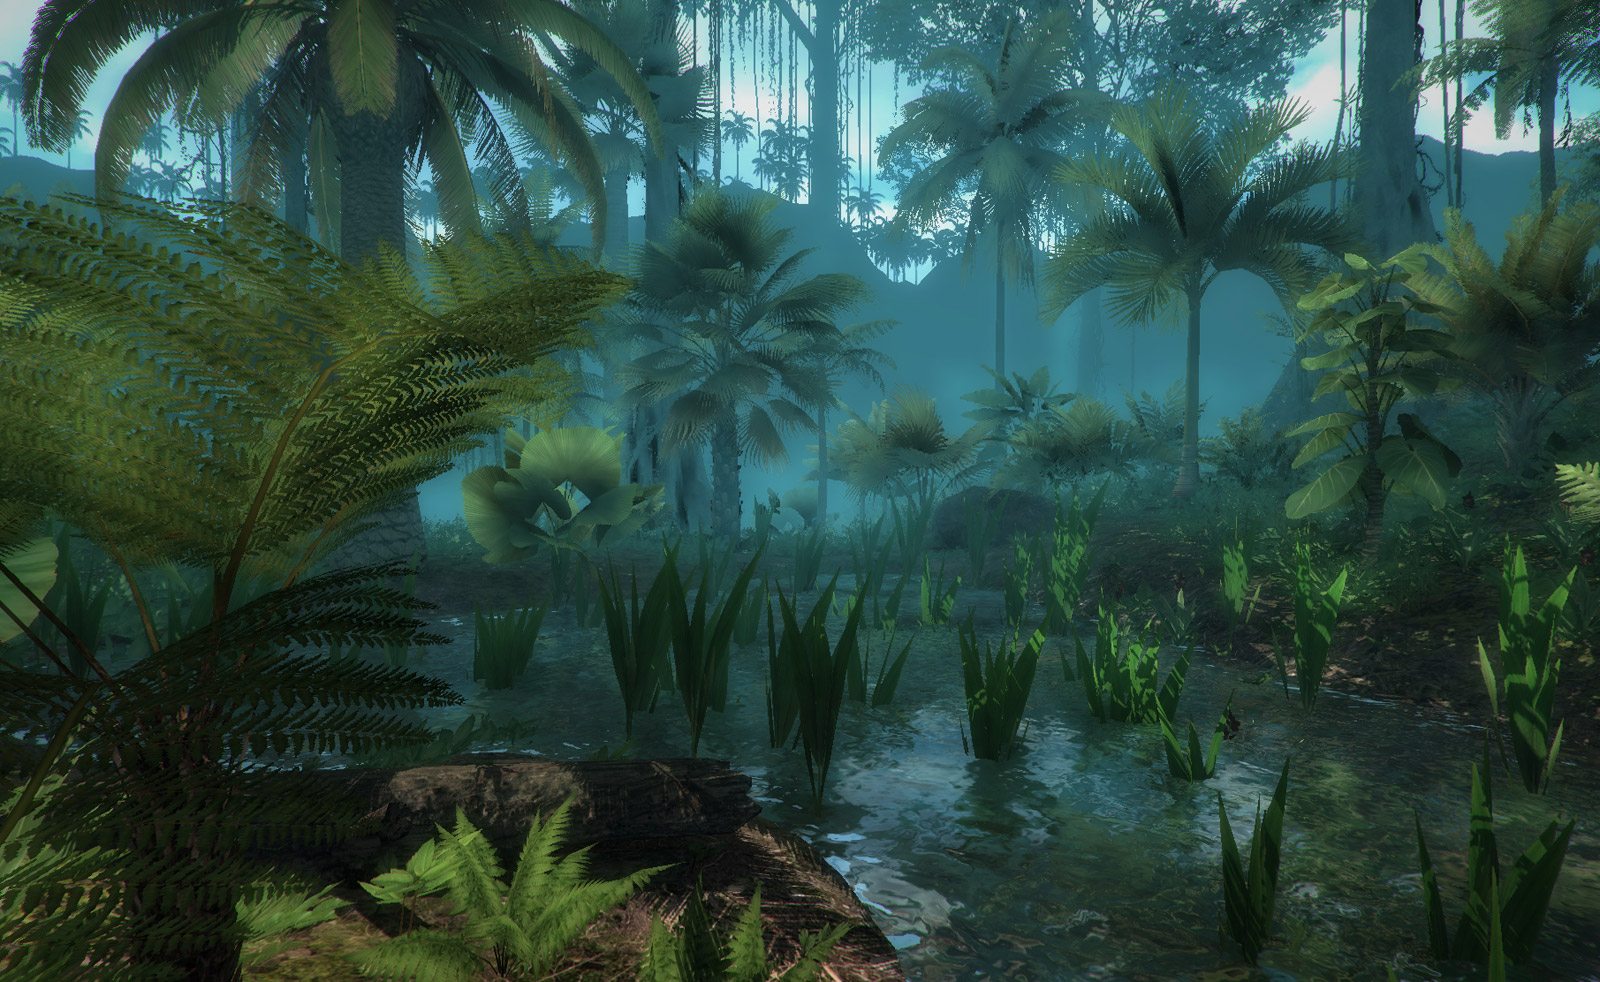
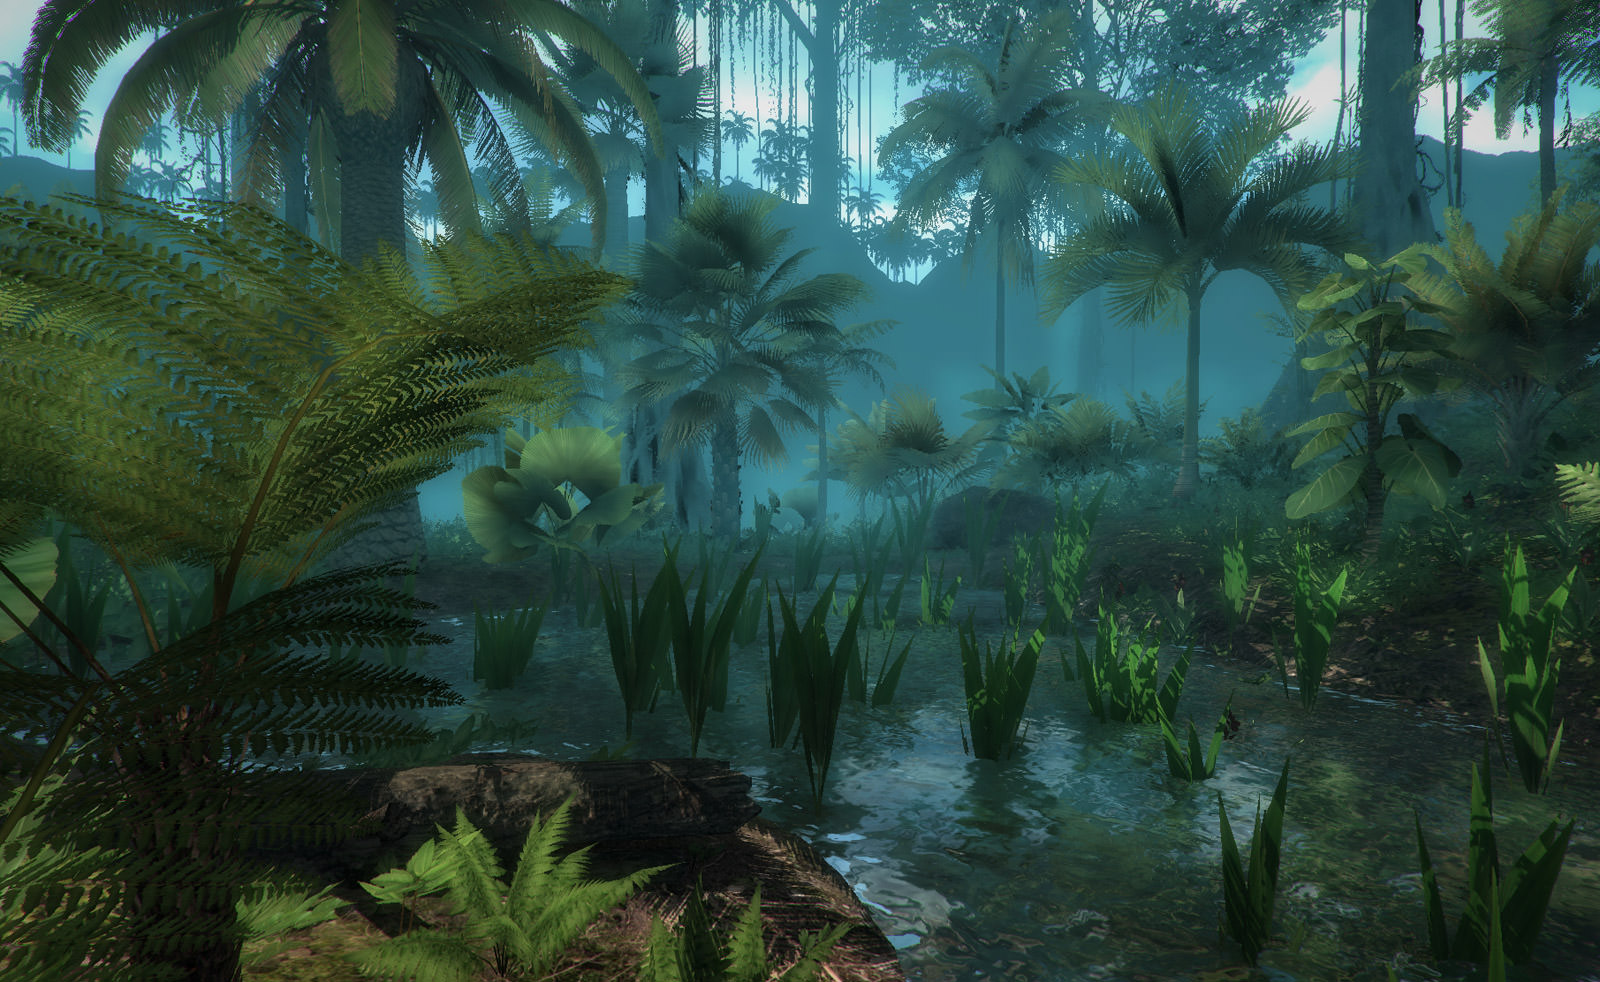
optimize image

diff --git a/app/index.html b/app/index.html
@@ -21,7 +21,7 @@
 
         body {
             /*background: #333;*/
-            background: url(jungle3.jpg);
+            background: url(jungle4.jpg);
             font-family: 'Prosto One', cursive;
         }
 
